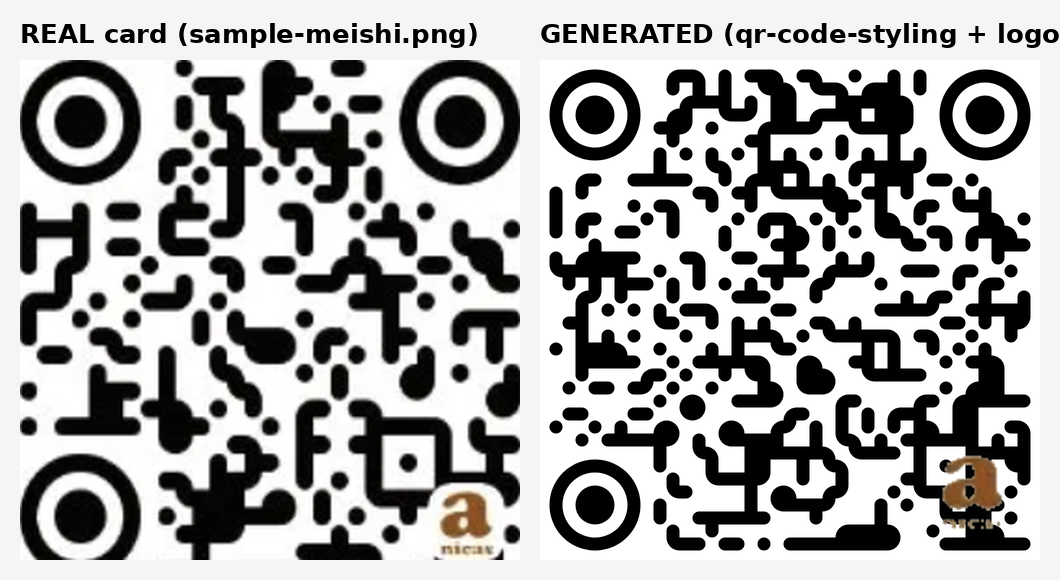
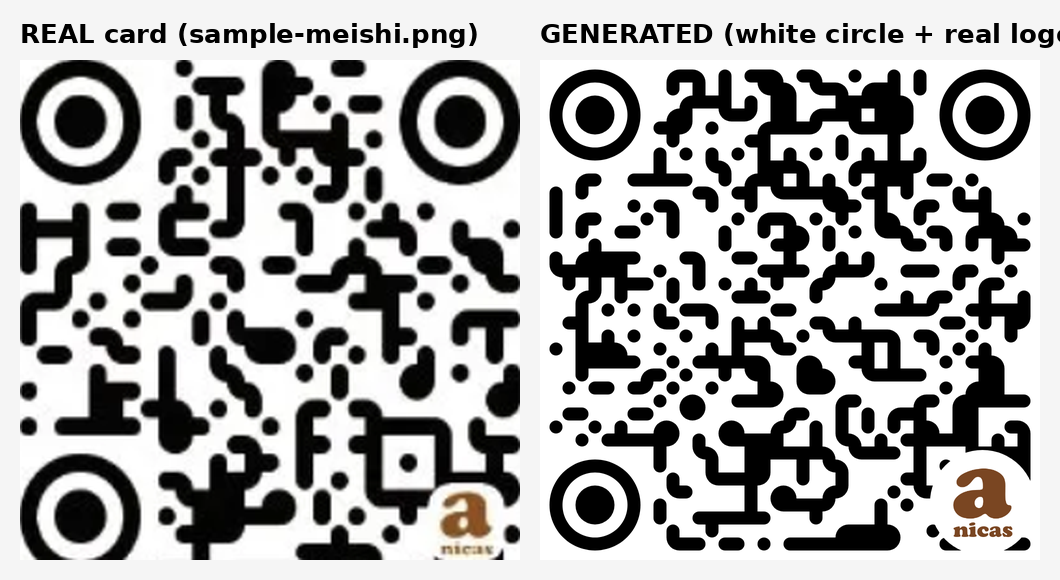
feat: 右下ロゴの背面に白円を敷いて視認性を改善
レイヤー順を QR本体 → 白円(#FFFFFF/不透明) → ロゴ に変更。
- 白円の中心はロゴ中心と一致、直径=ロゴ長辺×1.4、arc塗りで縁を antialias
- LOGO_RATIO を 0.2→0.15 に縮小。白円(0.2×1.3≒26%幅)ではデコード不可だったため
  ロゴを縮小(白円=0.15×1.4≒21%幅)。本物ロゴ+白円でも誤り訂正レベルHで
  読み取り可能を維持(pyzbarで実デコード確認)
- 白円・ロゴはファインダパターンに非干渉(右下コーナー配置)
- docs: 本物ロゴでの比較/カードレンダリング画像と検証手順を更新

https://claude.ai/code/session_01FuHJN5Y6LjSucDmVFFUeQy

Changed region(s): [[0.6849, 0.031, 1.0, 0.0931], [0.8717, 0.7759, 0.9962, 0.9621]]

diff --git a/lib/qr.ts b/lib/qr.ts
@@ -24,9 +24,10 @@
 const LOGO_SRC = "/anicas_logo_br_square.png";
 const QR_SIZE = 1000; // output canvas size in px (square)
 const QR_MARGIN = 12; // quiet-zone margin in px
-const LOGO_RATIO = 0.2; // logo box width as a fraction of QR width
+const LOGO_RATIO = 0.15; // logo box width as a fraction of QR width
 const LOGO_RIGHT_GAP = 0.04; // gap from QR right edge (fraction of QR width)
 const LOGO_BOTTOM_GAP = 0.04; // gap from QR bottom edge (fraction of QR width)
+const WHITE_CIRCLE_RATIO = 1.4; // backing-circle diameter as a multiple of the logo's long edge
 
 /**
  * Builds the Instagram profile URL encoded into the QR. Mirrors the value
@@ -78,6 +79,24 @@ export async function generateMeishiQr(handle: string): Promise<string | null> {
     const w = QR_SIZE * LOGO_RATIO;
     const x = QR_SIZE - w - QR_SIZE * LOGO_RIGHT_GAP;
     const y = QR_SIZE - w - QR_SIZE * LOGO_BOTTOM_GAP;
+    const cx = x + w / 2;
+    const cy = y + w / 2;
+
+    // Layer order: QR body → white backing circle → logo. The circle lifts
+    // the logo off the QR dots for legibility; its centre matches the logo
+    // centre and its diameter is the logo's long edge × WHITE_CIRCLE_RATIO so
+    // an even margin surrounds the mark. Kept small enough that the bottom-
+    // right data it covers stays recoverable under error-correction level H,
+    // and it never reaches the three finder patterns. canvas arc fill is
+    // antialiased, so the rim is smooth (no jaggies).
+    const radius = (w * WHITE_CIRCLE_RATIO) / 2;
+    ctx.save();
+    ctx.fillStyle = "#FFFFFF";
+    ctx.beginPath();
+    ctx.arc(cx, cy, radius, 0, Math.PI * 2);
+    ctx.fill();
+    ctx.restore();
+
     ctx.drawImage(logo, x, y, w, w);
   } catch (e) {
     // A missing/blocked logo asset must not break QR generation — the QR
